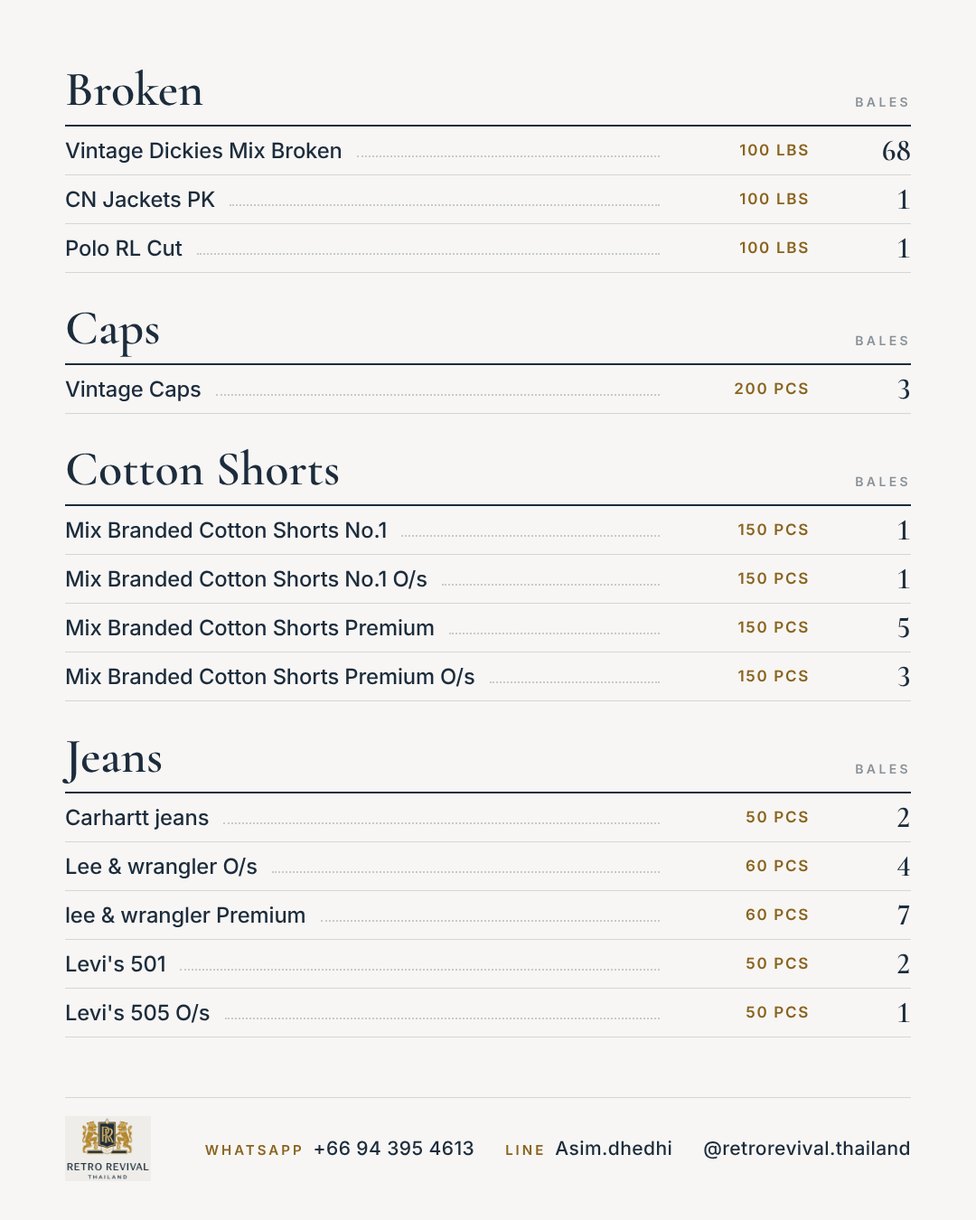
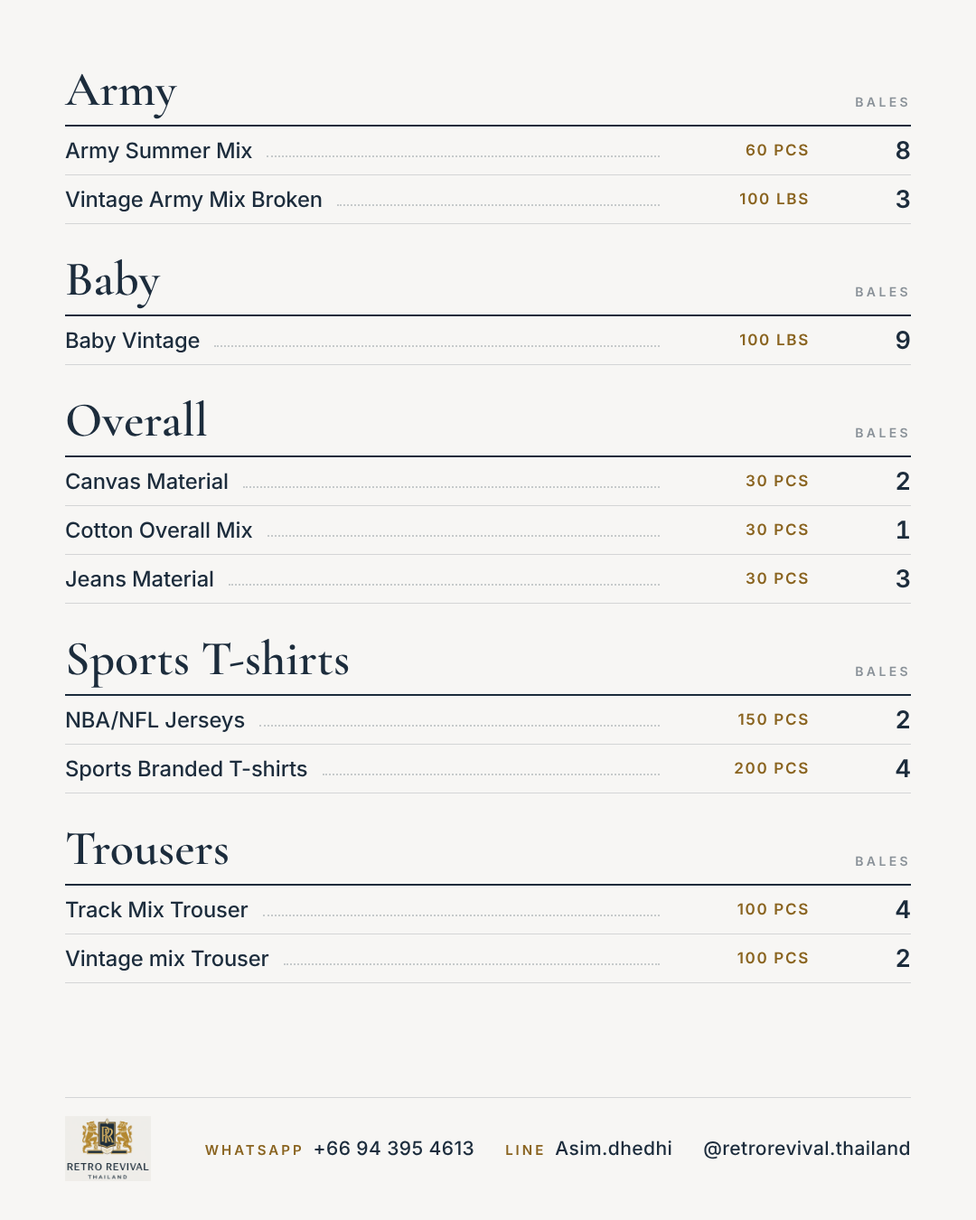
Keep each section whole on one slide; fix old-style numerals
Pack whole sections onto slides largest first instead of splitting
them, so Jeans gets one slide and Broken appears once. Headings use
Cormorant's lining figures, and bale quantities move to Inter.

Claude-Session: https://claude.ai/code/session_01FjARQ1TdBw1wsppj9LT4t6

diff --git a/projects/stock-drop/output/2026-10/carousel.html b/projects/stock-drop/output/2026-10/carousel.html
@@ -23,6 +23,42 @@
         </ul>
       </div>
       <div class="block">
+        <div class="section-head"><h2>Cotton Shorts</h2><span class="qt">Bales</span></div>
+        <ul class="rows">
+          <li><span class="cat">Mix Branded Cotton Shorts No.1</span><span class="leader"></span><span class="pk">150 Pcs</span><span class="qty">1</span></li>
+          <li><span class="cat">Mix Branded Cotton Shorts No.1 O/s</span><span class="leader"></span><span class="pk">150 Pcs</span><span class="qty">1</span></li>
+          <li><span class="cat">Mix Branded Cotton Shorts Premium</span><span class="leader"></span><span class="pk">150 Pcs</span><span class="qty">5</span></li>
+          <li><span class="cat">Mix Branded Cotton Shorts Premium O/s</span><span class="leader"></span><span class="pk">150 Pcs</span><span class="qty">3</span></li>
+        </ul>
+      </div>
+      <div class="block">
+        <div class="section-head"><h2>Pants</h2><span class="qt">Bales</span></div>
+        <ul class="rows">
+          <li><span class="cat">Carhartt Double Knee</span><span class="leader"></span><span class="pk">50 Pcs</span><span class="qty">1</span></li>
+          <li><span class="cat">Carhartt Pants Premium</span><span class="leader"></span><span class="pk">60 Pcs</span><span class="qty">3</span></li>
+          <li><span class="cat">Dickies Pants</span><span class="leader"></span><span class="pk">100 Pcs</span><span class="qty">2</span></li>
+          <li><span class="cat">Dickies Pants Premium</span><span class="leader"></span><span class="pk">100 Pcs</span><span class="qty">6</span></li>
+          <li><span class="cat">Mix Brand Pants</span><span class="leader"></span><span class="pk">100 Pcs</span><span class="qty">2</span></li>
+          <li><span class="cat">Mix Brand Pants O/S</span><span class="leader"></span><span class="pk">100 Pcs</span><span class="qty">1</span></li>
+          <li><span class="cat">Mix Brand Premium Pants</span><span class="leader"></span><span class="pk">100 Pcs</span><span class="qty">7</span></li>
+          <li><span class="cat">Polo RL Pants</span><span class="leader"></span><span class="pk">100 Pcs</span><span class="qty">2</span></li>
+          <li><span class="cat">Polo RL Pants Premium</span><span class="leader"></span><span class="pk">100 Pcs</span><span class="qty">1</span></li>
+        </ul>
+      </div>
+    </div>
+    <div class="footer">
+      <img class="logo" src="../../../../assets/brand/logo-primary-trimmed.png" alt="Retro Revival Thailand">
+      <div class="contacts">
+        <span><b>WHATSAPP</b>+66 94 395 4613</span>
+        <span><b>LINE</b>Asim.dhedhi</span>
+        <span>@retrorevival.thailand</span>
+      </div>
+    </div>
+  </section>
+
+  <section class="slide">
+    <div class="body" style="--row:54px">
+      <div class="block">
         <div class="section-head"><h2>Army</h2><span class="qt">Bales</span></div>
         <ul class="rows">
           <li><span class="cat">Army Summer Mix</span><span class="leader"></span><span class="pk">60 Pcs</span><span class="qty">8</span></li>
@@ -36,132 +72,6 @@
         </ul>
       </div>
       <div class="block">
-        <div class="section-head"><h2>Branded T-shirts</h2><span class="qt">Bales</span></div>
-        <ul class="rows">
-          <li><span class="cat">Branded T-Shirts Over Size</span><span class="leader"></span><span class="pk">100 Lbs</span><span class="qty">5</span></li>
-          <li><span class="cat">Carhartt T-Shirts</span><span class="leader"></span><span class="pk">150 Pcs</span><span class="qty">4</span></li>
-          <li><span class="cat">Mix Branded T-shirts</span><span class="leader"></span><span class="pk">200 Pcs</span><span class="qty">17</span></li>
-        </ul>
-      </div>
-      <div class="block">
-        <div class="section-head"><h2>Broken</h2><span class="qt">Bales</span></div>
-        <ul class="rows">
-          <li><span class="cat">Levis Coded Broken</span><span class="leader"></span><span class="pk">60 Pcs</span><span class="qty">32</span></li>
-          <li><span class="cat">Vintage Broken T-Shirts</span><span class="leader"></span><span class="pk">100 Lbs</span><span class="qty">21</span></li>
-          <li><span class="cat">Vintage Carhart Mix Broken</span><span class="leader"></span><span class="pk">100 Lbs</span><span class="qty">62</span></li>
-        </ul>
-      </div>
-    </div>
-    <div class="footer">
-      <img class="logo" src="../../../../assets/brand/logo-primary-trimmed.png" alt="Retro Revival Thailand">
-      <div class="contacts">
-        <span><b>WHATSAPP</b>+66 94 395 4613</span>
-        <span><b>LINE</b>Asim.dhedhi</span>
-        <span>@retrorevival.thailand</span>
-      </div>
-    </div>
-  </section>
-
-  <section class="slide">
-    <div class="body" style="--row:54px">
-      <div class="block">
-        <div class="section-head"><h2>Broken</h2><span class="qt">Bales</span></div>
-        <ul class="rows">
-          <li><span class="cat">Vintage Dickies Mix Broken</span><span class="leader"></span><span class="pk">100 Lbs</span><span class="qty">68</span></li>
-          <li><span class="cat">CN Jackets PK</span><span class="leader"></span><span class="pk">100 Lbs</span><span class="qty">1</span></li>
-          <li><span class="cat">Polo RL Cut</span><span class="leader"></span><span class="pk">100 Lbs</span><span class="qty">1</span></li>
-        </ul>
-      </div>
-      <div class="block">
-        <div class="section-head"><h2>Caps</h2><span class="qt">Bales</span></div>
-        <ul class="rows">
-          <li><span class="cat">Vintage Caps</span><span class="leader"></span><span class="pk">200 PCs</span><span class="qty">3</span></li>
-        </ul>
-      </div>
-      <div class="block">
-        <div class="section-head"><h2>Cotton Shorts</h2><span class="qt">Bales</span></div>
-        <ul class="rows">
-          <li><span class="cat">Mix Branded Cotton Shorts No.1</span><span class="leader"></span><span class="pk">150 Pcs</span><span class="qty">1</span></li>
-          <li><span class="cat">Mix Branded Cotton Shorts No.1 O/s</span><span class="leader"></span><span class="pk">150 Pcs</span><span class="qty">1</span></li>
-          <li><span class="cat">Mix Branded Cotton Shorts Premium</span><span class="leader"></span><span class="pk">150 Pcs</span><span class="qty">5</span></li>
-          <li><span class="cat">Mix Branded Cotton Shorts Premium O/s</span><span class="leader"></span><span class="pk">150 Pcs</span><span class="qty">3</span></li>
-        </ul>
-      </div>
-      <div class="block">
-        <div class="section-head"><h2>Jeans</h2><span class="qt">Bales</span></div>
-        <ul class="rows">
-          <li><span class="cat">Carhartt jeans</span><span class="leader"></span><span class="pk">50 Pcs</span><span class="qty">2</span></li>
-          <li><span class="cat">Lee &amp; wrangler O/s</span><span class="leader"></span><span class="pk">60 Pcs</span><span class="qty">4</span></li>
-          <li><span class="cat">lee &amp; wrangler Premium</span><span class="leader"></span><span class="pk">60 Pcs</span><span class="qty">7</span></li>
-          <li><span class="cat">Levi's 501</span><span class="leader"></span><span class="pk">50 Pcs</span><span class="qty">2</span></li>
-          <li><span class="cat">Levi's 505 O/s</span><span class="leader"></span><span class="pk">50 Pcs</span><span class="qty">1</span></li>
-        </ul>
-      </div>
-    </div>
-    <div class="footer">
-      <img class="logo" src="../../../../assets/brand/logo-primary-trimmed.png" alt="Retro Revival Thailand">
-      <div class="contacts">
-        <span><b>WHATSAPP</b>+66 94 395 4613</span>
-        <span><b>LINE</b>Asim.dhedhi</span>
-        <span>@retrorevival.thailand</span>
-      </div>
-    </div>
-  </section>
-
-  <section class="slide">
-    <div class="body" style="--row:54px">
-      <div class="block">
-        <div class="section-head"><h2>Jeans</h2><span class="qt">Bales</span></div>
-        <ul class="rows">
-          <li><span class="cat">Levi's 550</span><span class="leader"></span><span class="pk">50 Pcs</span><span class="qty">3</span></li>
-          <li><span class="cat">Levi's 550 O/s</span><span class="leader"></span><span class="pk">50 Pcs</span><span class="qty">2</span></li>
-          <li><span class="cat">Levi's Mix coded O/S</span><span class="leader"></span><span class="pk">60 Pcs</span><span class="qty">1</span></li>
-          <li><span class="cat">Levi's Mix coded Premium</span><span class="leader"></span><span class="pk">60 Pcs</span><span class="qty">8</span></li>
-          <li><span class="cat">Levi's Mix codes</span><span class="leader"></span><span class="pk">60 Pcs</span><span class="qty">6</span></li>
-          <li><span class="cat">Levi's VTG -USA</span><span class="leader"></span><span class="pk">50 Pcs</span><span class="qty">1</span></li>
-          <li><span class="cat">Levis 501 O/s</span><span class="leader"></span><span class="pk">50 Pcs</span><span class="qty">1</span></li>
-          <li><span class="cat">Levis 501 Premium</span><span class="leader"></span><span class="pk">50 Pcs</span><span class="qty">2</span></li>
-          <li><span class="cat">Levis 505</span><span class="leader"></span><span class="pk">50 Pcs</span><span class="qty">5</span></li>
-          <li><span class="cat">Mix Branded Jeans</span><span class="leader"></span><span class="pk">60 Pcs</span><span class="qty">1</span></li>
-          <li><span class="cat">Mix Branded Jeans Premium</span><span class="leader"></span><span class="pk">60 Pcs</span><span class="qty">3</span></li>
-          <li><span class="cat">Rustler Jeans Mix</span><span class="leader"></span><span class="pk">60 Pcs</span><span class="qty">3</span></li>
-          <li><span class="cat">Dickies Jeans</span><span class="leader"></span><span class="pk">50 Pcs</span><span class="qty">2</span></li>
-          <li><span class="cat">Lee &amp; Wrangler</span><span class="leader"></span><span class="pk">60 Pcs</span><span class="qty">7</span></li>
-        </ul>
-      </div>
-      <div class="block">
-        <div class="section-head"><h2>Men Shirts</h2><span class="qt">Bales</span></div>
-        <ul class="rows">
-          <li><span class="cat">Chaps &amp; Nautica Mix Shirts</span><span class="leader"></span><span class="pk">150 Pcs</span><span class="qty">8</span></li>
-          <li><span class="cat">Cowboy Shirts</span><span class="leader"></span><span class="pk">150 Pcs</span><span class="qty">3</span></li>
-          <li><span class="cat">Hawaii Shirts</span><span class="leader"></span><span class="pk">150 Pcs</span><span class="qty">7</span></li>
-        </ul>
-      </div>
-    </div>
-    <div class="footer">
-      <img class="logo" src="../../../../assets/brand/logo-primary-trimmed.png" alt="Retro Revival Thailand">
-      <div class="contacts">
-        <span><b>WHATSAPP</b>+66 94 395 4613</span>
-        <span><b>LINE</b>Asim.dhedhi</span>
-        <span>@retrorevival.thailand</span>
-      </div>
-    </div>
-  </section>
-
-  <section class="slide">
-    <div class="body" style="--row:54px">
-      <div class="block">
-        <div class="section-head"><h2>Men Shirts</h2><span class="qt">Bales</span></div>
-        <ul class="rows">
-          <li><span class="cat">LLW Shirts</span><span class="leader"></span><span class="pk">150 Pcs</span><span class="qty">3</span></li>
-          <li><span class="cat">Polo RL Shirts</span><span class="leader"></span><span class="pk">150 Pcs</span><span class="qty">4</span></li>
-          <li><span class="cat">Premium Fashion Branded Shirts</span><span class="leader"></span><span class="pk">150 Pcs</span><span class="qty">4</span></li>
-          <li><span class="cat">Premium Vintage Branded Shirts</span><span class="leader"></span><span class="pk">150 Pcs</span><span class="qty">7</span></li>
-          <li><span class="cat">Scout Shirts</span><span class="leader"></span><span class="pk">150 Pcs</span><span class="qty">4</span></li>
-          <li><span class="cat">Tommy Hilfiger Shirts</span><span class="leader"></span><span class="pk">150 Pcs</span><span class="qty">2</span></li>
-        </ul>
-      </div>
-      <div class="block">
         <div class="section-head"><h2>Overall</h2><span class="qt">Bales</span></div>
         <ul class="rows">
           <li><span class="cat">Canvas Material</span><span class="leader"></span><span class="pk">30 Pcs</span><span class="qty">2</span></li>
@@ -170,14 +80,17 @@
         </ul>
       </div>
       <div class="block">
-        <div class="section-head"><h2>Pants</h2><span class="qt">Bales</span></div>
+        <div class="section-head"><h2>Sports T-shirts</h2><span class="qt">Bales</span></div>
         <ul class="rows">
-          <li><span class="cat">Carhartt Double Knee</span><span class="leader"></span><span class="pk">50 Pcs</span><span class="qty">1</span></li>
-          <li><span class="cat">Carhartt Pants Premium</span><span class="leader"></span><span class="pk">60 Pcs</span><span class="qty">3</span></li>
-          <li><span class="cat">Dickies Pants</span><span class="leader"></span><span class="pk">100 Pcs</span><span class="qty">2</span></li>
-          <li><span class="cat">Dickies Pants Premium</span><span class="leader"></span><span class="pk">100 Pcs</span><span class="qty">6</span></li>
-          <li><span class="cat">Mix Brand Pants</span><span class="leader"></span><span class="pk">100 Pcs</span><span class="qty">2</span></li>
-          <li><span class="cat">Mix Brand Pants O/S</span><span class="leader"></span><span class="pk">100 Pcs</span><span class="qty">1</span></li>
+          <li><span class="cat">NBA/NFL Jerseys</span><span class="leader"></span><span class="pk">150 Pcs</span><span class="qty">2</span></li>
+          <li><span class="cat">Sports Branded T-shirts</span><span class="leader"></span><span class="pk">200 Pcs</span><span class="qty">4</span></li>
+        </ul>
+      </div>
+      <div class="block">
+        <div class="section-head"><h2>Trousers</h2><span class="qt">Bales</span></div>
+        <ul class="rows">
+          <li><span class="cat">Track Mix Trouser</span><span class="leader"></span><span class="pk">100 pcs</span><span class="qty">4</span></li>
+          <li><span class="cat">Vintage mix Trouser</span><span class="leader"></span><span class="pk">100 Pcs</span><span class="qty">2</span></li>
         </ul>
       </div>
     </div>
@@ -194,11 +107,11 @@
   <section class="slide">
     <div class="body" style="--row:54px">
       <div class="block">
-        <div class="section-head"><h2>Pants</h2><span class="qt">Bales</span></div>
+        <div class="section-head"><h2>Branded T-shirts</h2><span class="qt">Bales</span></div>
         <ul class="rows">
-          <li><span class="cat">Mix Brand Premium Pants</span><span class="leader"></span><span class="pk">100 Pcs</span><span class="qty">7</span></li>
-          <li><span class="cat">Polo RL Pants</span><span class="leader"></span><span class="pk">100 Pcs</span><span class="qty">2</span></li>
-          <li><span class="cat">Polo RL Pants Premium</span><span class="leader"></span><span class="pk">100 Pcs</span><span class="qty">1</span></li>
+          <li><span class="cat">Branded T-Shirts Over Size</span><span class="leader"></span><span class="pk">100 Lbs</span><span class="qty">5</span></li>
+          <li><span class="cat">Carhartt T-Shirts</span><span class="leader"></span><span class="pk">150 Pcs</span><span class="qty">4</span></li>
+          <li><span class="cat">Mix Branded T-shirts</span><span class="leader"></span><span class="pk">200 Pcs</span><span class="qty">17</span></li>
         </ul>
       </div>
       <div class="block">
@@ -234,16 +147,53 @@
   <section class="slide">
     <div class="body" style="--row:54px">
       <div class="block">
-        <div class="section-head"><h2>Sports Shorts</h2><span class="qt">Bales</span></div>
+        <div class="section-head"><h2>Broken</h2><span class="qt">Bales</span></div>
         <ul class="rows">
-          <li><span class="cat">Branded Sports Shorts Mix</span><span class="leader"></span><span class="pk">200 Pcs</span><span class="qty">4</span></li>
+          <li><span class="cat">Levis Coded Broken</span><span class="leader"></span><span class="pk">60 Pcs</span><span class="qty">32</span></li>
+          <li><span class="cat">Vintage Broken T-Shirts</span><span class="leader"></span><span class="pk">100 Lbs</span><span class="qty">21</span></li>
+          <li><span class="cat">Vintage Carhart Mix Broken</span><span class="leader"></span><span class="pk">100 Lbs</span><span class="qty">62</span></li>
+          <li><span class="cat">Vintage Dickies Mix Broken</span><span class="leader"></span><span class="pk">100 Lbs</span><span class="qty">68</span></li>
+          <li><span class="cat">CN Jackets PK</span><span class="leader"></span><span class="pk">100 Lbs</span><span class="qty">1</span></li>
+          <li><span class="cat">Polo RL Cut</span><span class="leader"></span><span class="pk">100 Lbs</span><span class="qty">1</span></li>
         </ul>
       </div>
       <div class="block">
-        <div class="section-head"><h2>Sports T-shirts</h2><span class="qt">Bales</span></div>
+        <div class="section-head"><h2>Men Shirts</h2><span class="qt">Bales</span></div>
         <ul class="rows">
-          <li><span class="cat">NBA/NFL Jerseys</span><span class="leader"></span><span class="pk">150 Pcs</span><span class="qty">2</span></li>
-          <li><span class="cat">Sports Branded T-shirts</span><span class="leader"></span><span class="pk">200 Pcs</span><span class="qty">4</span></li>
+          <li><span class="cat">Chaps &amp; Nautica Mix Shirts</span><span class="leader"></span><span class="pk">150 Pcs</span><span class="qty">8</span></li>
+          <li><span class="cat">Cowboy Shirts</span><span class="leader"></span><span class="pk">150 Pcs</span><span class="qty">3</span></li>
+          <li><span class="cat">Hawaii Shirts</span><span class="leader"></span><span class="pk">150 Pcs</span><span class="qty">7</span></li>
+          <li><span class="cat">LLW Shirts</span><span class="leader"></span><span class="pk">150 Pcs</span><span class="qty">3</span></li>
+          <li><span class="cat">Polo RL Shirts</span><span class="leader"></span><span class="pk">150 Pcs</span><span class="qty">4</span></li>
+          <li><span class="cat">Premium Fashion Branded Shirts</span><span class="leader"></span><span class="pk">150 Pcs</span><span class="qty">4</span></li>
+          <li><span class="cat">Premium Vintage Branded Shirts</span><span class="leader"></span><span class="pk">150 Pcs</span><span class="qty">7</span></li>
+          <li><span class="cat">Scout Shirts</span><span class="leader"></span><span class="pk">150 Pcs</span><span class="qty">4</span></li>
+          <li><span class="cat">Tommy Hilfiger Shirts</span><span class="leader"></span><span class="pk">150 Pcs</span><span class="qty">2</span></li>
+        </ul>
+      </div>
+    </div>
+    <div class="footer">
+      <img class="logo" src="../../../../assets/brand/logo-primary-trimmed.png" alt="Retro Revival Thailand">
+      <div class="contacts">
+        <span><b>WHATSAPP</b>+66 94 395 4613</span>
+        <span><b>LINE</b>Asim.dhedhi</span>
+        <span>@retrorevival.thailand</span>
+      </div>
+    </div>
+  </section>
+
+  <section class="slide">
+    <div class="body" style="--row:54px">
+      <div class="block">
+        <div class="section-head"><h2>Caps</h2><span class="qt">Bales</span></div>
+        <ul class="rows">
+          <li><span class="cat">Vintage Caps</span><span class="leader"></span><span class="pk">200 PCs</span><span class="qty">3</span></li>
+        </ul>
+      </div>
+      <div class="block">
+        <div class="section-head"><h2>Sports Shorts</h2><span class="qt">Bales</span></div>
+        <ul class="rows">
+          <li><span class="cat">Branded Sports Shorts Mix</span><span class="leader"></span><span class="pk">200 Pcs</span><span class="qty">4</span></li>
         </ul>
       </div>
       <div class="block">
@@ -253,16 +203,46 @@
         </ul>
       </div>
       <div class="block">
-        <div class="section-head"><h2>Trousers</h2><span class="qt">Bales</span></div>
-        <ul class="rows">
-          <li><span class="cat">Track Mix Trouser</span><span class="leader"></span><span class="pk">100 pcs</span><span class="qty">4</span></li>
-          <li><span class="cat">Vintage mix Trouser</span><span class="leader"></span><span class="pk">100 Pcs</span><span class="qty">2</span></li>
-        </ul>
-      </div>
-      <div class="block">
         <div class="section-head"><h2>Winter</h2><span class="qt">Bales</span></div>
         <ul class="rows">
           <li><span class="cat">Vintage Mix Heavy</span><span class="leader"></span><span class="pk">60 Pcs</span><span class="qty">164</span></li>
+        </ul>
+      </div>
+    </div>
+    <div class="footer">
+      <img class="logo" src="../../../../assets/brand/logo-primary-trimmed.png" alt="Retro Revival Thailand">
+      <div class="contacts">
+        <span><b>WHATSAPP</b>+66 94 395 4613</span>
+        <span><b>LINE</b>Asim.dhedhi</span>
+        <span>@retrorevival.thailand</span>
+      </div>
+    </div>
+  </section>
+
+  <section class="slide">
+    <div class="body" style="--row:54px">
+      <div class="block">
+        <div class="section-head"><h2>Jeans</h2><span class="qt">Bales</span></div>
+        <ul class="rows">
+          <li><span class="cat">Carhartt jeans</span><span class="leader"></span><span class="pk">50 Pcs</span><span class="qty">2</span></li>
+          <li><span class="cat">Lee &amp; wrangler O/s</span><span class="leader"></span><span class="pk">60 Pcs</span><span class="qty">4</span></li>
+          <li><span class="cat">lee &amp; wrangler Premium</span><span class="leader"></span><span class="pk">60 Pcs</span><span class="qty">7</span></li>
+          <li><span class="cat">Levi's 501</span><span class="leader"></span><span class="pk">50 Pcs</span><span class="qty">2</span></li>
+          <li><span class="cat">Levi's 505 O/s</span><span class="leader"></span><span class="pk">50 Pcs</span><span class="qty">1</span></li>
+          <li><span class="cat">Levi's 550</span><span class="leader"></span><span class="pk">50 Pcs</span><span class="qty">3</span></li>
+          <li><span class="cat">Levi's 550 O/s</span><span class="leader"></span><span class="pk">50 Pcs</span><span class="qty">2</span></li>
+          <li><span class="cat">Levi's Mix coded O/S</span><span class="leader"></span><span class="pk">60 Pcs</span><span class="qty">1</span></li>
+          <li><span class="cat">Levi's Mix coded Premium</span><span class="leader"></span><span class="pk">60 Pcs</span><span class="qty">8</span></li>
+          <li><span class="cat">Levi's Mix codes</span><span class="leader"></span><span class="pk">60 Pcs</span><span class="qty">6</span></li>
+          <li><span class="cat">Levi's VTG -USA</span><span class="leader"></span><span class="pk">50 Pcs</span><span class="qty">1</span></li>
+          <li><span class="cat">Levis 501 O/s</span><span class="leader"></span><span class="pk">50 Pcs</span><span class="qty">1</span></li>
+          <li><span class="cat">Levis 501 Premium</span><span class="leader"></span><span class="pk">50 Pcs</span><span class="qty">2</span></li>
+          <li><span class="cat">Levis 505</span><span class="leader"></span><span class="pk">50 Pcs</span><span class="qty">5</span></li>
+          <li><span class="cat">Mix Branded Jeans</span><span class="leader"></span><span class="pk">60 Pcs</span><span class="qty">1</span></li>
+          <li><span class="cat">Mix Branded Jeans Premium</span><span class="leader"></span><span class="pk">60 Pcs</span><span class="qty">3</span></li>
+          <li><span class="cat">Rustler Jeans Mix</span><span class="leader"></span><span class="pk">60 Pcs</span><span class="qty">3</span></li>
+          <li><span class="cat">Dickies Jeans</span><span class="leader"></span><span class="pk">50 Pcs</span><span class="qty">2</span></li>
+          <li><span class="cat">Lee &amp; Wrangler</span><span class="leader"></span><span class="pk">60 Pcs</span><span class="qty">7</span></li>
         </ul>
       </div>
     </div>

diff --git a/projects/stock-drop/template/styles.css b/projects/stock-drop/template/styles.css
@@ -94,11 +94,11 @@ body { background: #555; font-family: var(--sans); color: var(--navy); }
 .cover-text { position: absolute; left: 80px; right: 80px; bottom: 120px; }
 .cover-text .eyebrow { color: var(--gold-light); }
 .cover-text h1 {
-  margin-top: 30px; font: 600 200px/0.86 var(--serif);
+  margin-top: 30px; font: 600 200px/0.86 var(--serif); font-variant-numeric: lining-nums;
   letter-spacing: -0.01em; color: var(--cream);
 }
 .cover-text .month {
-  margin-top: 18px; font: italic 500 84px/1 var(--serif); color: var(--gold-light);
+  margin-top: 18px; font: italic 500 84px/1 var(--serif); font-variant-numeric: lining-nums; color: var(--gold-light);
 }
 .cover-text .rule { width: 120px; height: 2px; background: var(--gold); margin: 44px 0 30px; }
 .cover-text .pillars {
@@ -122,7 +122,7 @@ body { background: #555; font-family: var(--sans); color: var(--navy); }
   display: flex; align-items: flex-end; gap: 20px;
   height: 76px; padding-bottom: 12px; border-bottom: 2px solid var(--navy);
 }
-.section-head h2 { margin: 0; font: 600 54px/1 var(--serif); white-space: nowrap; }
+.section-head h2 { margin: 0; font: 600 54px/1 var(--serif); font-variant-numeric: lining-nums; white-space: nowrap; }
 .section-head .qt {
   margin-left: auto; padding-bottom: 6px; font: 600 14px/1 var(--sans); letter-spacing: 0.24em;
   text-transform: uppercase; color: rgba(28,44,60,0.5);
@@ -139,4 +139,4 @@ body { background: #555; font-family: var(--sans); color: var(--navy); }
 .rows .cat { min-width: 0; font: 500 calc(var(--row) * 0.44)/1.15 var(--sans); letter-spacing: -0.005em; white-space: nowrap; overflow: hidden; }
 .rows .leader { flex: 1; min-width: 24px; align-self: center; border-bottom: 2px dotted rgba(28,44,60,0.22); transform: translateY(6px); }
 .rows .pk { flex: none; font: 600 17px/1 var(--sans); letter-spacing: 0.1em; text-transform: uppercase; color: var(--gold-dark); white-space: nowrap; overflow: hidden; }
-.rows .qty { flex: none; font: 600 calc(var(--row) * 0.62)/1 var(--serif); font-variant-numeric: lining-nums tabular-nums; }
+.rows .qty { flex: none; font: 600 calc(var(--row) * 0.5)/1 var(--sans); font-variant-numeric: tabular-nums; }

diff --git a/projects/stock-drop/README.md b/projects/stock-drop/README.md
@@ -56,7 +56,7 @@ The build reads the client's own layout. Columns are matched by header name, so 
 
 - **Totals check:** the build stops if the lines don't add up to the sheet's total row.
 - **Overflow check:** the build stops if any text would be cut off.
-- **Slide cap:** the build stops if the list can't fit in 7 slides.
+- **Slide cap:** the build stops if every section can't fit whole within 7 slides.
 - **No photo:** if `assets/photos/warehouse.jpg` is missing, the cover uses a plain navy background. Add the file and rebuild to switch to the photo.
 
 ### Data on file
@@ -72,17 +72,18 @@ Less is more: **7 slides at most**, the cover and the list. Nothing else.
 | # | Slide | Content |
 | :- | :- | :- |
 | 1 | Cover | Logo, "Stock Drop", month, location, WhatsApp and LINE |
-| 2–7 | List | Section name, then one line per bale: description, packing, bales. Sections flow across slides, with at least 2 lines on each side of a split |
+| 2–7 | List | Section name, then one line per bale: description, packing, bales. **A section is never split across slides** |
 
 - List slides carry only the list, plus a footer with the logo, WhatsApp, LINE, and Instagram. No index, totals, page numbers, or section numbers.
-- **Auto-fit:** the build tries row heights from most to least readable (72px down to 54px) and uses the first that fits in 7 slides. If a month's sheet is too long even at 54px, the build stops and says so. Raise `MAX_SLIDES` in `src/build.mjs` only if you accept more slides.
+- **Packing:** sections are rearranged to fit, largest first, so the slides don't follow sheet order. Within a slide, sections keep sheet order.
+- **Auto-fit:** the build tries row heights from most to least readable (72px down to 54px) and uses the first where every section fits whole within 7 slides. If a month's sheet can't fit even at 54px, the build stops and names the largest section. Raise `MAX_SLIDES` in `src/build.mjs` only if you accept more slides.
 
 Contact details come from `src/brand.mjs`. Keep that file in sync with the [business profile](../../docs/research/business-profile.md).
 
 ## Design system
 
 - **Colours:** taken from the logo (see [brand direction](../../docs/strategy/brand-direction.md#colours)).
-- **Type:** Cormorant Garamond for headings and numbers, Inter for everything else. Both use the SIL Open Font License, and the files are bundled in `template/fonts/`.
+- **Type:** Cormorant Garamond for headings, always with lining figures (its default old-style numerals drop below the line). Inter for descriptions, packing, and bale quantities. Both use the SIL Open Font License, and the files are bundled in `template/fonts/`.
 - **Logo:** `assets/brand/logo-primary-trimmed.png` is the official file, cropped only. It sits on an off-white plate because the file has no transparent background.
 - **Format:** 1080 × 1350 px (Instagram 4:5).
 

diff --git a/docs/client/decisions.md b/docs/client/decisions.md
@@ -4,6 +4,7 @@ Answers and decisions confirmed by the client or Hammad. Add new entries at the 
 
 | Date | Decision | Source | Docs updated |
 | :- | :- | :- | :- |
+| 2026-10-10 | A section is never split across slides. Sections may be rearranged to fit. Numerals use lining figures (no dropped 3s) | Hammad | projects/stock-drop |
 | 2026-10-10 | The carousel is 7 slides at most: the cover and the list. No contact slide (contacts sit in every footer and on the cover), index, totals, page numbers, section numbers, or "why us" slide | Hammad | projects/stock-drop |
 | 2026-10-10 | October 2026 inventory received: `ETA141026.xlsx`, 80 bale lines in 17 sections, 641 bales. Quantities are in bales, and each line states its packing (pcs or lbs per bale) | Client sheet | projects/stock-drop |
 | 2026-10-10 | The repo is organised as one repo for Retro Revival, with one folder per workstream under `projects/` | Hammad | README.md |
